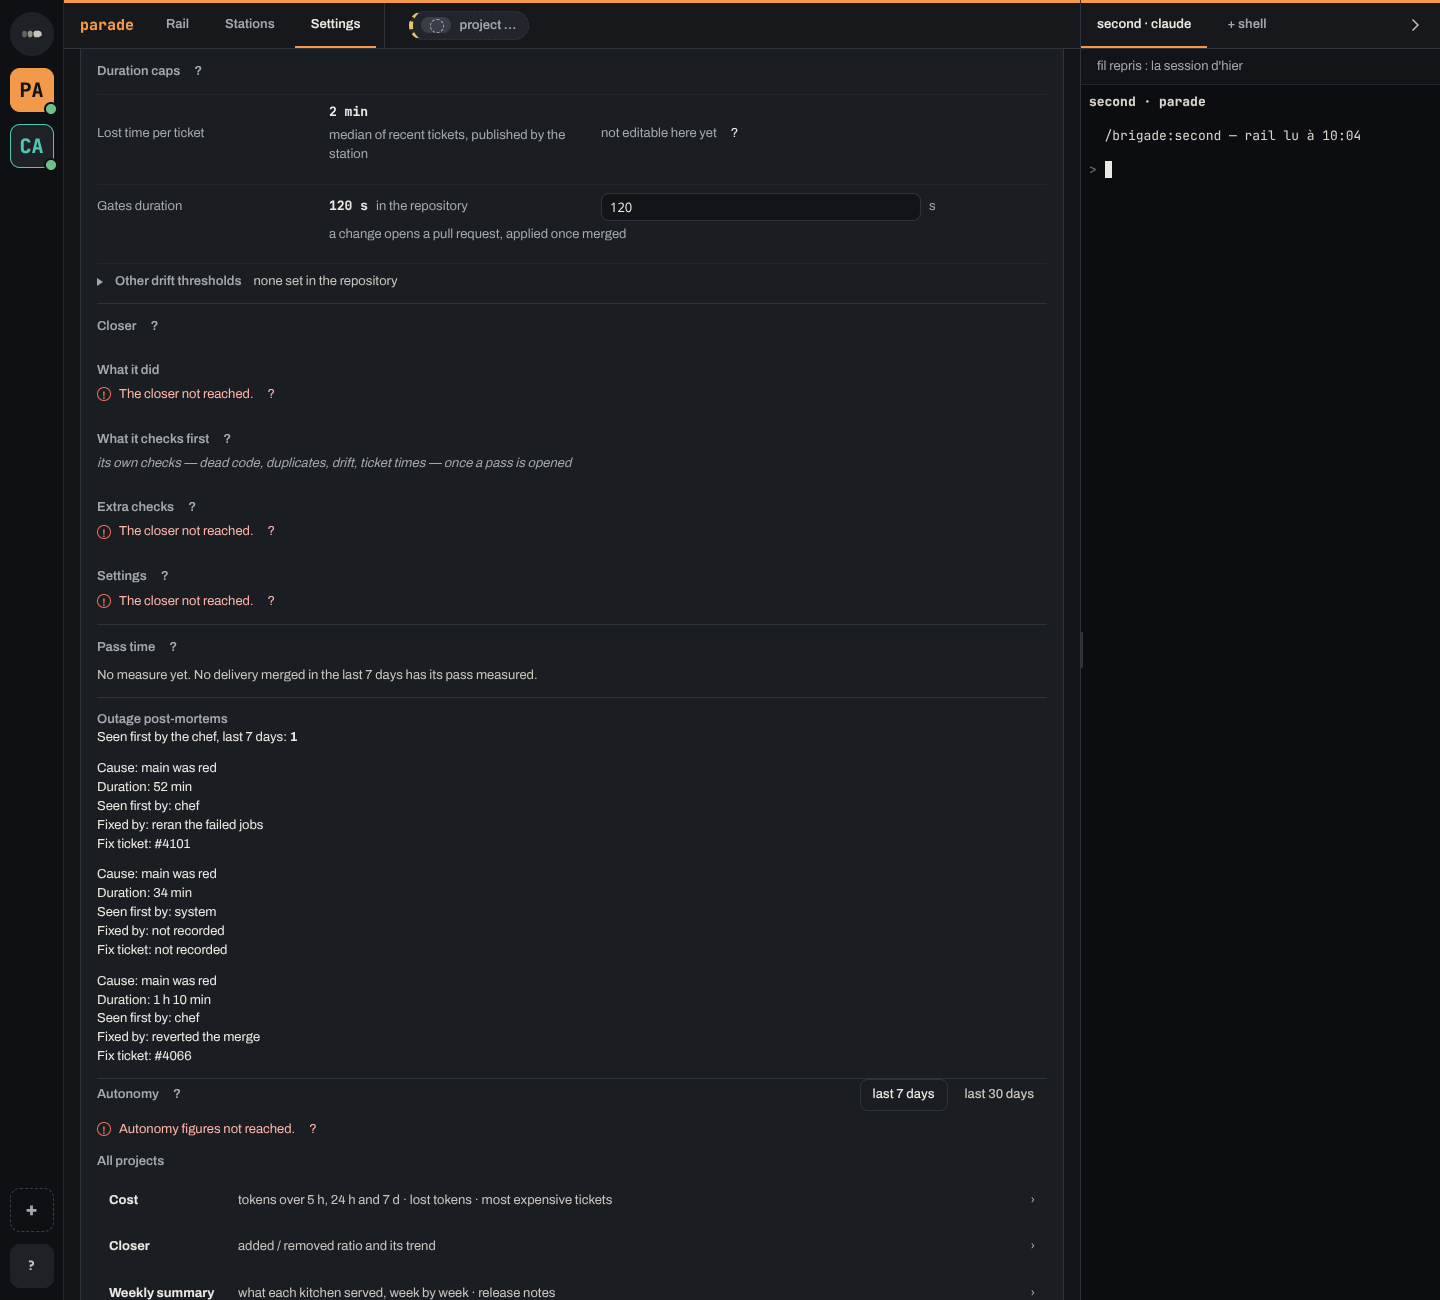
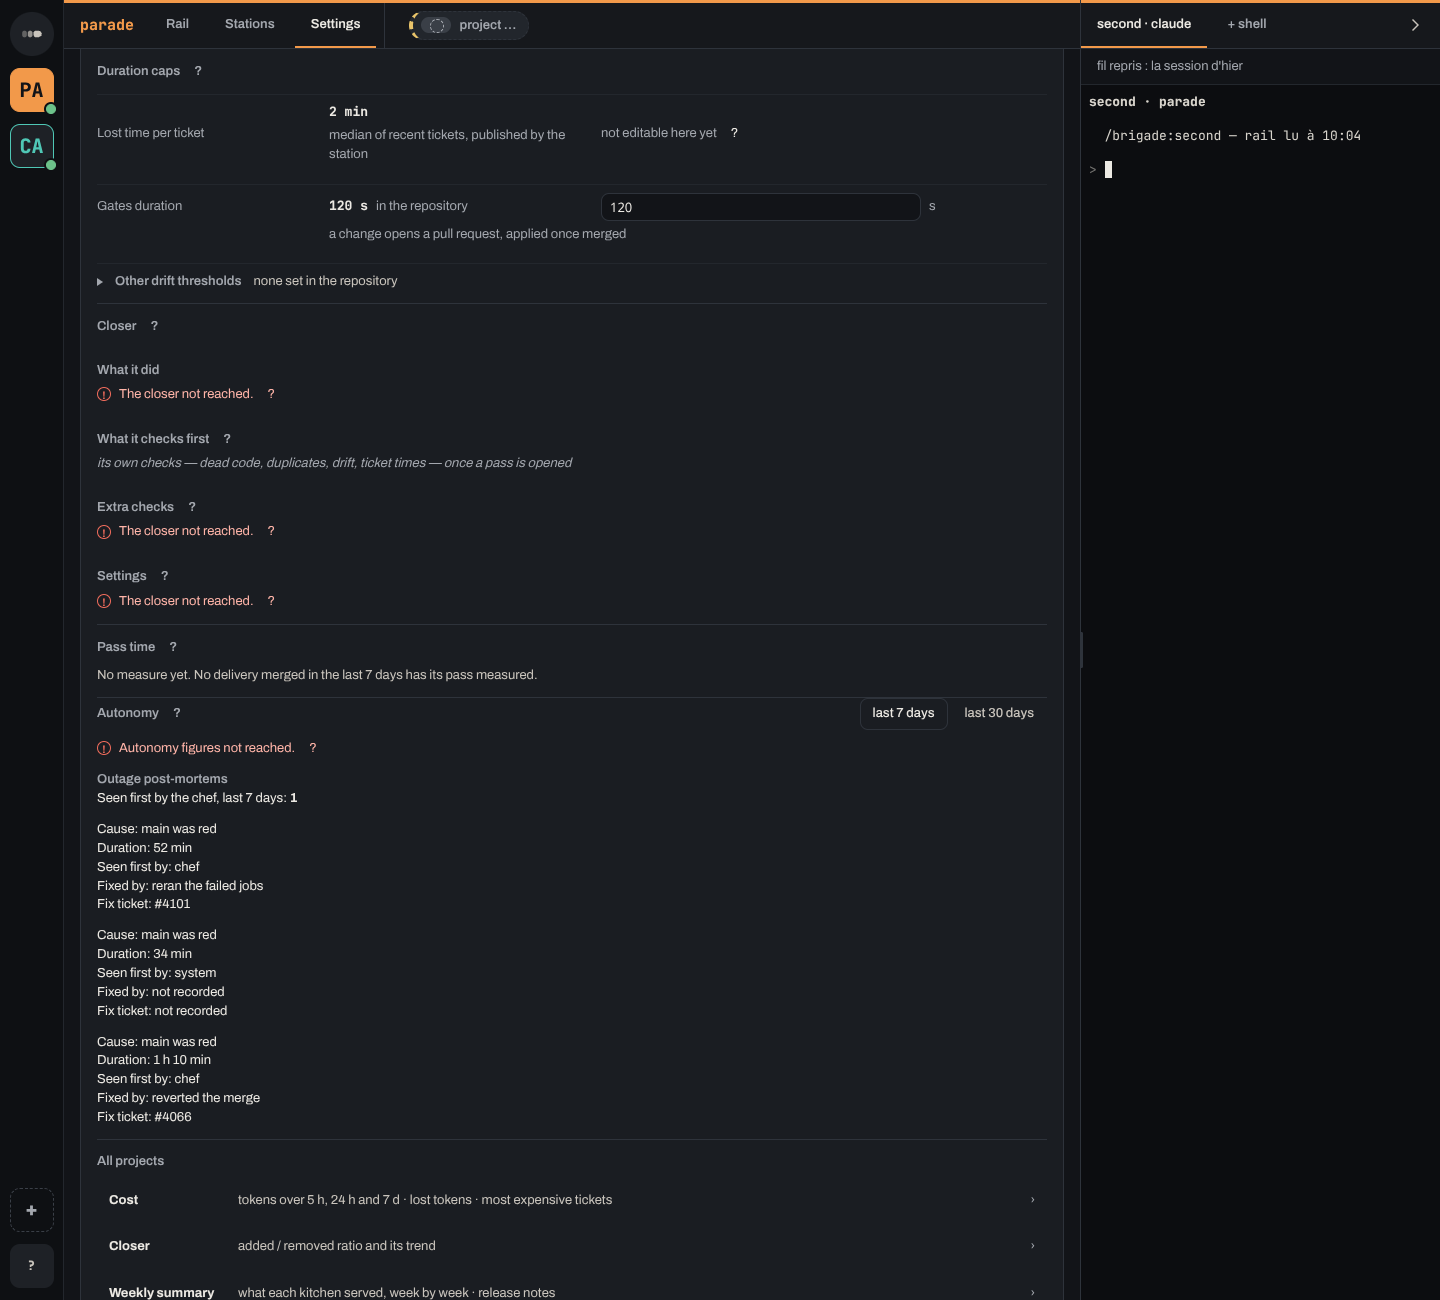
fix(#4023): post-mortems block after the autonomy figures, no ticket number read as a colour, tokens for spacing

diff --git a/app/test/vue/projet/bandeau-sante.test.ts b/app/test/vue/projet/bandeau-sante.test.ts
@@ -364,7 +364,7 @@ describe("le bandeau de santé, dans la vue", () => {
     assert.match(settings, /<section id="reglages-sante" class="groupe"[^>]*>\s*<h2 [^>]*class="niveau-du-groupe">Caps, closer and all projects<\/h2>\s*<div id="bandeau-sante"><\/div>/);
     assert.equal(vue.element("etat").hidden, false);
     const section = vue.element("bandeau-sante");
-    assert.deepEqual(section.children.map(({ dataset }) => dataset.bloc), ["plafonds-duree", "closer", "temps-de-la-passe", "chiffres-autonomie", "de-tous-les-projets"]);
+    assert.deepEqual(section.children.map(({ dataset }) => dataset.bloc), ["plafonds-duree", "closer", "temps-de-la-passe", "chiffres-autonomie", "post-mortems", "de-tous-les-projets"]);
     assert.deepEqual(section.children.filter(({ balise }) => balise === "details"), [], "rien à déplier pour les voir");
   });
 
@@ -389,7 +389,7 @@ describe("le bandeau de santé, dans la vue", () => {
     }
     await ouvrirLecture(vue, "Settings");
     assert.equal(vue.element("etat").hidden, false);
-    assert.deepEqual(vue.element("bandeau-sante").children.map(({ dataset }) => dataset.bloc), ["plafonds-duree", "closer", "temps-de-la-passe", "chiffres-autonomie", "de-tous-les-projets"]);
+    assert.deepEqual(vue.element("bandeau-sante").children.map(({ dataset }) => dataset.bloc), ["plafonds-duree", "closer", "temps-de-la-passe", "chiffres-autonomie", "post-mortems", "de-tous-les-projets"]);
   });
 
   test("un plafond changé dans le bandeau part au process principal à son `change`, et la rangée dit la PR ouverte, qui s'ouvre", async () => {

diff --git a/app/src/vue/vue.js b/app/src/vue/vue.js
@@ -7004,7 +7004,7 @@ function autonomieDuProjet(projet) {
   return tenue;
 }
 // `garder` : une relecture ne repose pas un champ où le chef est en train d'écrire ; ce que ses gestes rendent, si.
-// Les post-mortems de panne du projet (#4023), d'après les derniers faits de sa box — rien de lu tant qu'elle ne les donne pas.
+// Les post-mortems de panne du projet (ticket 4023), d'après les derniers faits de sa box — rien de lu tant qu'elle ne les donne pas.
 /** @param {Projet} projet */
 function postMortemsDe(projet) {
   const tenu = tenus.get(projet.nom);
@@ -7034,8 +7034,8 @@ function poserLeBandeauDeSante(projet, garder = true) {
     }),
     poserLeCloserDeSante(projet),
     poserBlocTempsDeLaPasse(document, vu?.temps),
-    poserBlocPostMortems(document, postMortemsDe(projet)),
     autonomieDuProjet(projet).poser(),
+    poserBlocPostMortems(document, postMortemsDe(projet)),
     deTousLesProjets,
   );
   if (Date.now() - (plafondsLusLe.get(projet.nom) ?? 0) > 60_000) void lireLesPlafondsDuree(projet);

diff --git a/app/test/onglets-du-projet.test.ts b/app/test/onglets-du-projet.test.ts
@@ -278,7 +278,7 @@ describe("le menu de la page d'un projet (#2485, #2921)", () => {
     await repos();
     // Leur section de Settings : les plafonds, le closer, puis les lignes « Cost » et « Closer » de tous les projets (#2638).
     assert.equal(vue.element("etat").hidden, false);
-    assert.deepEqual(blocsDuBandeau(vue), ["plafonds-duree", "closer", "temps-de-la-passe", "chiffres-autonomie", "de-tous-les-projets"]);
+    assert.deepEqual(blocsDuBandeau(vue), ["plafonds-duree", "closer", "temps-de-la-passe", "chiffres-autonomie", "post-mortems", "de-tous-les-projets"]);
 
     await ouvrirOnglet(vue, "Rail");
     assert.equal(vue.element("etat").hidden, true);

diff --git a/app/src/vue/projet/bandeau-sante/PostMortems.js b/app/src/vue/projet/bandeau-sante/PostMortems.js
@@ -1,5 +1,5 @@
 // @ts-check
-// Les post-mortems de panne du projet (#4023), dans la section de Settings du projet : le nombre de pannes vues d'abord par
+// Les post-mortems de panne du projet (ticket 4023), dans la section de Settings du projet : le nombre de pannes vues d'abord par
 // le chef sur les 7 derniers jours, puis chaque post-mortem, le plus récent d'abord, avec ses cinq champs. Un champ que rien
 // n'a dit se dit « not recorded », jamais inventé. Ce module ne touche pas `document` : il reçoit de quoi créer un élément.
 

diff --git a/app/src/vue/vue.css b/app/src/vue/vue.css
@@ -4167,6 +4167,6 @@ main > header {
   font-variant-numeric: tabular-nums;
 }
 
-/* Les post-mortems de panne du projet (#4023) : une panne par rangée, ses cinq champs l'un sous l'autre. */
+/* Les post-mortems de panne du projet (ticket 4023) : une panne par rangée, ses cinq champs l'un sous l'autre. */
 .post-mortems-liste { list-style: none; margin: 0; padding: 0; }
-.post-mortems-liste li { margin-top: 0.75rem; }
+.post-mortems-liste li { margin-top: var(--pas-3); }
